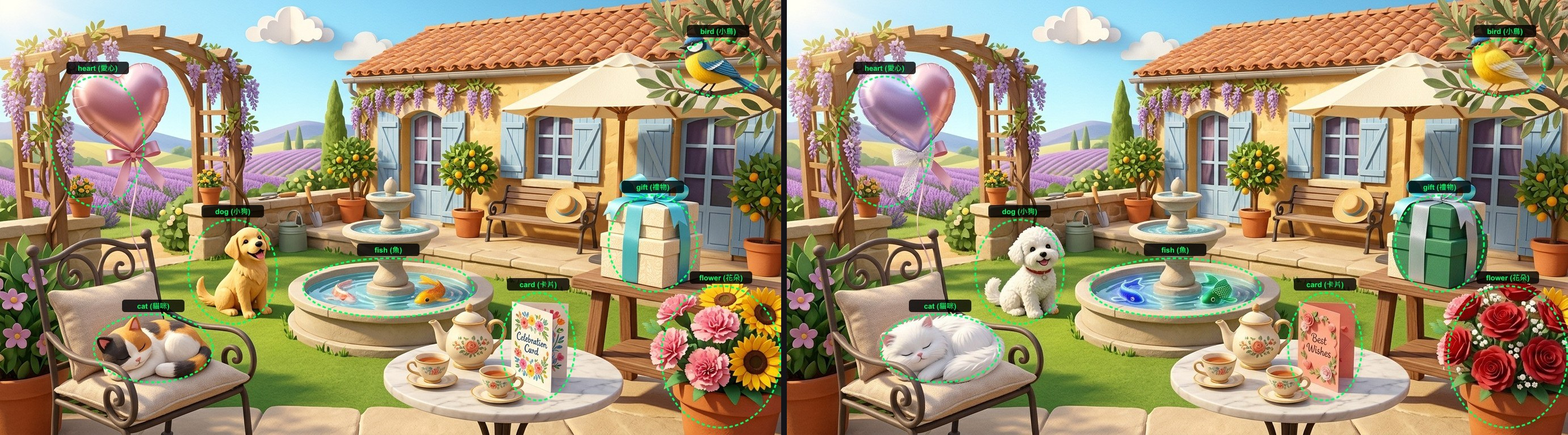
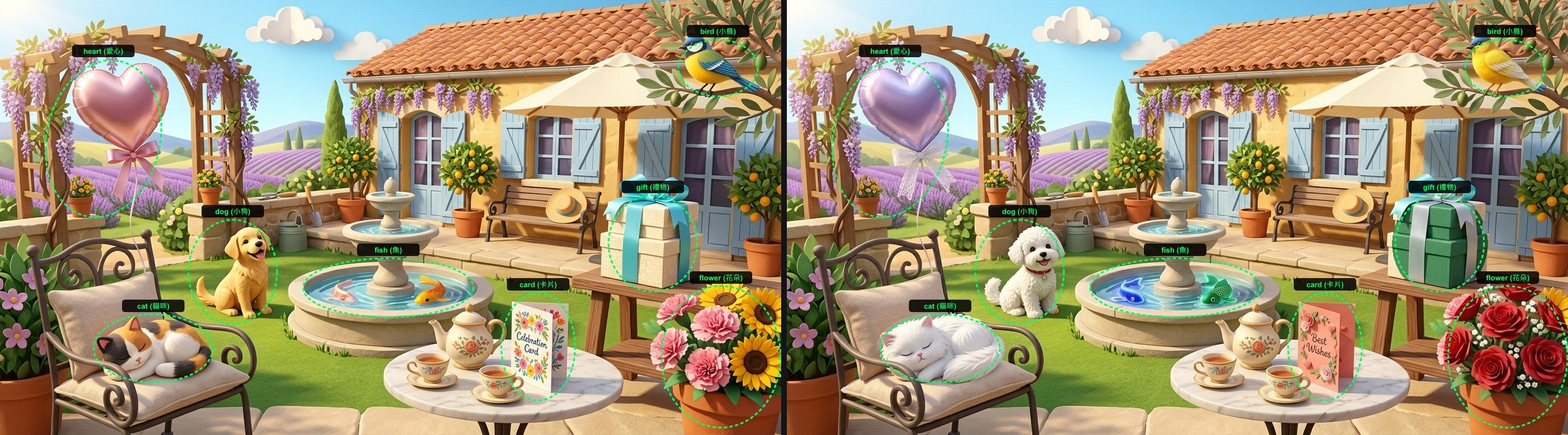
fix(spotter): fix Book 2 Scene 1 heart balloon full variant coverage and calibrated bounding box touching arch trellis

Changed region(s): [[0.5293, 0.0938, 0.6227, 0.5], [0.0311, 0.0938, 0.0934, 0.2812], [0.0311, 0.4062, 0.0934, 0.5]]

diff --git a/src/games/spotter/spotterData.js b/src/games/spotter/spotterData.js
@@ -343,14 +343,15 @@ export const BOOK2_PARK_SCENE = {
     {
       word: 'heart',
       wordZh: '愛心',
-      x: 172,
-      y: 250,
-      radius: 115,
-      radiusX: 82,
-      radiusY: 115,
+      x: 182,
+      y: 245,
+      radius: 140,
+      radiusX: 100,
+      radiusY: 140,
+      rotate: 12,
       typeZh: '愛心氣球',
       descZh: '左側紫藤花架上為粉紅愛心金屬氣球，右圖轉為暖金箔愛心氣球',
-      slot: { x: 90, y: 135, w: 164, h: 230, rx: 16 },
+      slot: { x: 82, y: 105, w: 200, h: 280, rx: 16 },
       patchFile: 'heart.png',
       cropCompare: '/assets/spotter/crops/b2_s1/heart_compare.jpg',
       variants: [
